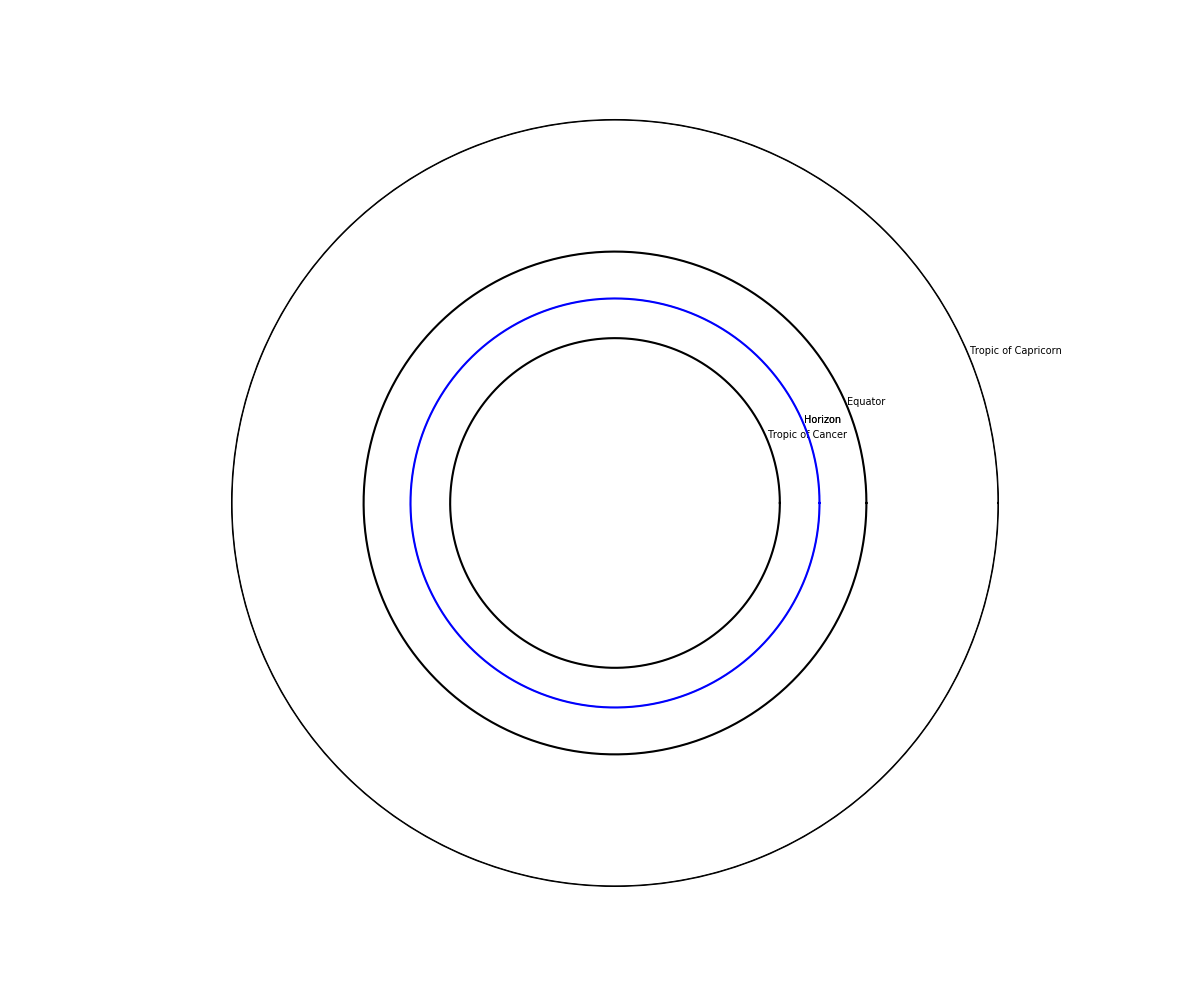
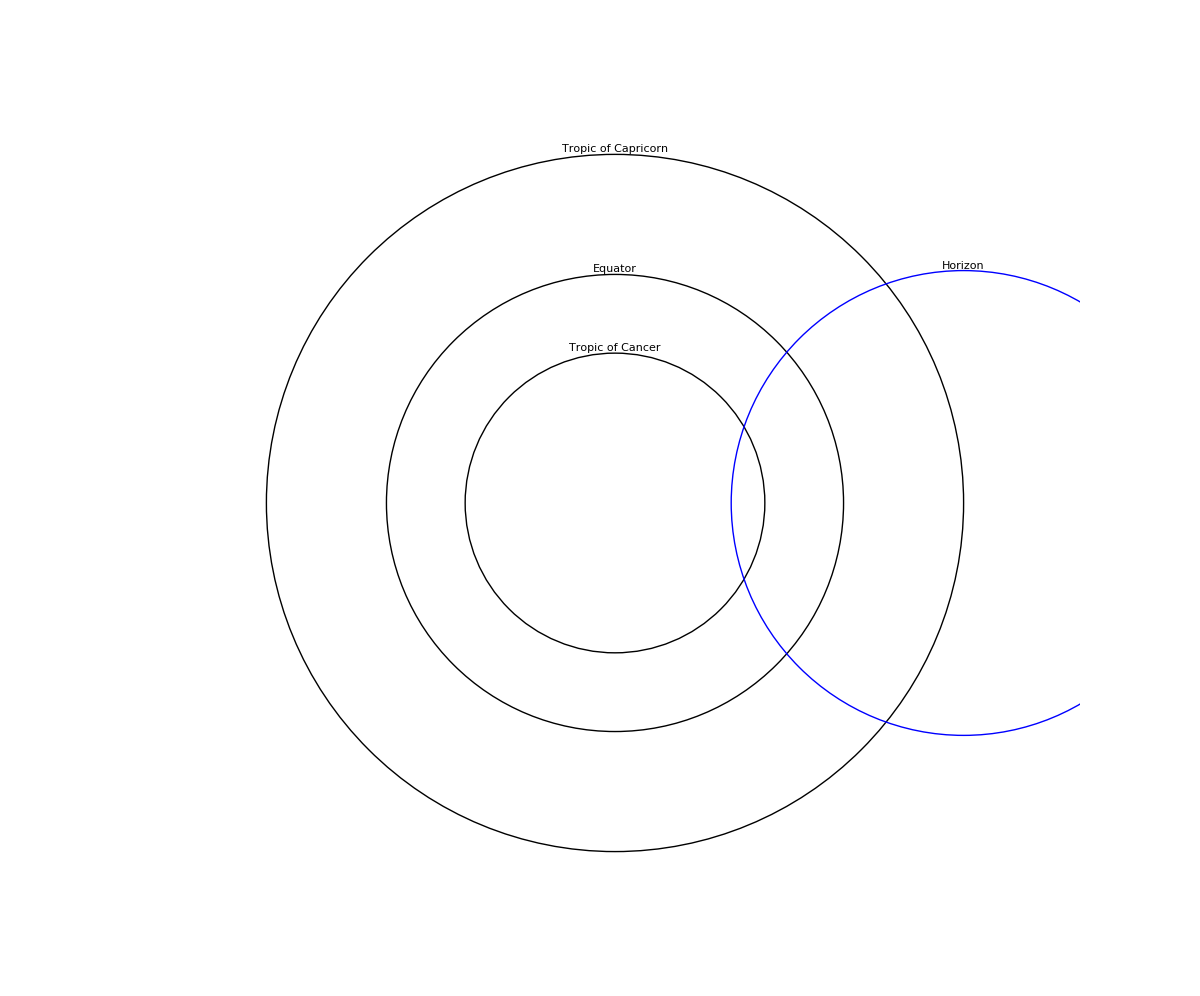
switch from polar coordinate to plt.Circle

diff --git a/page_x_astrolabe/generate_latitude_plate.py b/page_x_astrolabe/generate_latitude_plate.py
@@ -6,10 +6,15 @@ import matplotlib.pyplot as plt
 from scipy.interpolate import interp1d
 import math
 
-def plotLatitudePlate(ruler_length, northOrSouth, displayDeclination):
+def calculateLatitudeCirclePosition(latitude_in_degrees):
+	radius = 10
+	offset = 15
+	return radius, offset
+
+def plotLatitudePlate(ruler_length, northOrSouth, displayAxis):
 	# Plot latitude plate
 	fig = plt.figure(figsize=(12,12), dpi=100)
-	ax = fig.subplots(subplot_kw={'projection': 'polar'})
+	ax = fig.subplots()
 
 	radius_of_plate = ruler_length / 2
 
@@ -38,41 +43,56 @@ def plotLatitudePlate(ruler_length, northOrSouth, displayDeclination):
 	print("Tropic of Cancer radius ({0}) = {1:.4f}".format(45-tropic_of_cancer/2, cancer_radius))
 
 	declination_position = []
+	declination_offset = []
 	declination_labels = []
 
-	ax.set_ylim(0, radius_of_plate) # limit range to within the tropics
+	#ax.set_ylim(0, radius_of_plate) # limit range to within the tropics
+	#ax.set_xlim(-radius_of_plate, radius_of_plate+1) # limit range to within the tropics
+	#ax.set_ylim(-radius_of_plate, radius_of_plate+1) # limit range to within the tropics
+	#print("limit = {0}".format(radius_of_plate))
 
-	def plotCircles(radius_pos, label_name, label_color):
+	def plotCircles(radius_pos, label_name, radius_offset, label_color, outer_radius):
 		# plot 360 degrees circle
+		declination_position.append(round(radius_pos, 4))
 		declination_labels.append(label_name)
-		declination_position.append(radius_pos)
-		for curve in [[[0, 360], [radius_pos, radius_pos]]]: # draw a circle in 360 degrees
-			curve[0] = np.deg2rad(curve[0])
-			x = np.linspace(curve[0][0], curve[0][1], num=360)
-			y = interp1d(curve[0], curve[1])(x)
-			ax.plot(x, y, color=label_color)
+		declination_offset.append(radius_offset)
+		ax.axis("equal")
+		circle = plt.Circle(xy=(radius_offset,0), radius=radius_pos, fill=False, color=label_color)
+		ax.add_patch(circle)
+
+		#import matplotlib.patches as patches
+		#mask = patches.Circle((8,8),radius=5)
+		#circle.set_clip_path(mask)
+		#ax.add_patch(mask)
 
 	# Draw circle/curve for: Tropic of Cancer, Equator, Tropic of Capricon
 	tropics_labels = ["Tropic of Capricorn", "Equator", "Tropic of Cancer"]
 	tropics_positions = [capricorn_radius, equator_radius, cancer_radius]
 	for i, pos in enumerate(tropics_positions):
-		plotCircles(pos, tropics_labels[i], "Black")
+		plotCircles(pos, tropics_labels[i], 0, "Black", radius_of_plate)
 	
 	# Draw circle/curve for: Horizon
-	horizon_position = 8
-	declination_labels.append("Horizon")
-	declination_position.append(horizon_position)
-	plotCircles(horizon_position, "Horizon", "Blue")
+	horizon_position = 0 # degrees
+	horizon_radius, horizon_offset = calculateLatitudeCirclePosition(horizon_position)
+	plotCircles(horizon_radius, "Horizon", horizon_offset, "Blue", radius_of_plate)
 	
 	# Draw circle/curve for: Declination latitude angles
-	##TODO
+	latitude_list = np.arange(-90, 90+1, 10) # in degrees
+	#for latitude_in_degrees in latitude_list:
+	#	plotCircles(latitude_in_degrees, str(latitude_in_degrees), 0, "Green")
 
 	# Display circle labels
-	if displayDeclination:
-		plt.yticks(declination_position, fontsize=7)
-		ax.set_yticklabels(declination_labels, horizontalalignment="left", verticalalignment="bottom")
+	print(declination_position)
+	print(declination_labels)
+	print(declination_offset)
+	if displayAxis:
+		for i, txt in enumerate(declination_labels):
+			ax.annotate(txt, xy=(declination_offset[i], declination_position[i]), 
+						horizontalalignment='center', verticalalignment='bottom', 
+						fontsize=8)
+		plt.axis('off')
 	else:
-		plt.yticks(declination_position, fontsize=0) # do not display
+		plt.axis('off')
 
 	plt.show()
 	fig.savefig('latitude_plate.png', dpi=fig.dpi)
@@ -80,7 +100,7 @@ def plotLatitudePlate(ruler_length, northOrSouth, displayDeclination):
 if __name__ == '__main__':
 	# Chart Options
 	northOrSouth = "North" # options: "North", "South"
-	displayDeclination = True # display chart with RA (False/True)
+	displayAxis= True # display chart with axis (False/True)
 	total_ruler_length = 30 # units (cut in half for each side of the ruler) (currently has to be even)
 
-	plotLatitudePlate(total_ruler_length, northOrSouth, displayDeclination)
+	plotLatitudePlate(total_ruler_length, northOrSouth, displayAxis)
